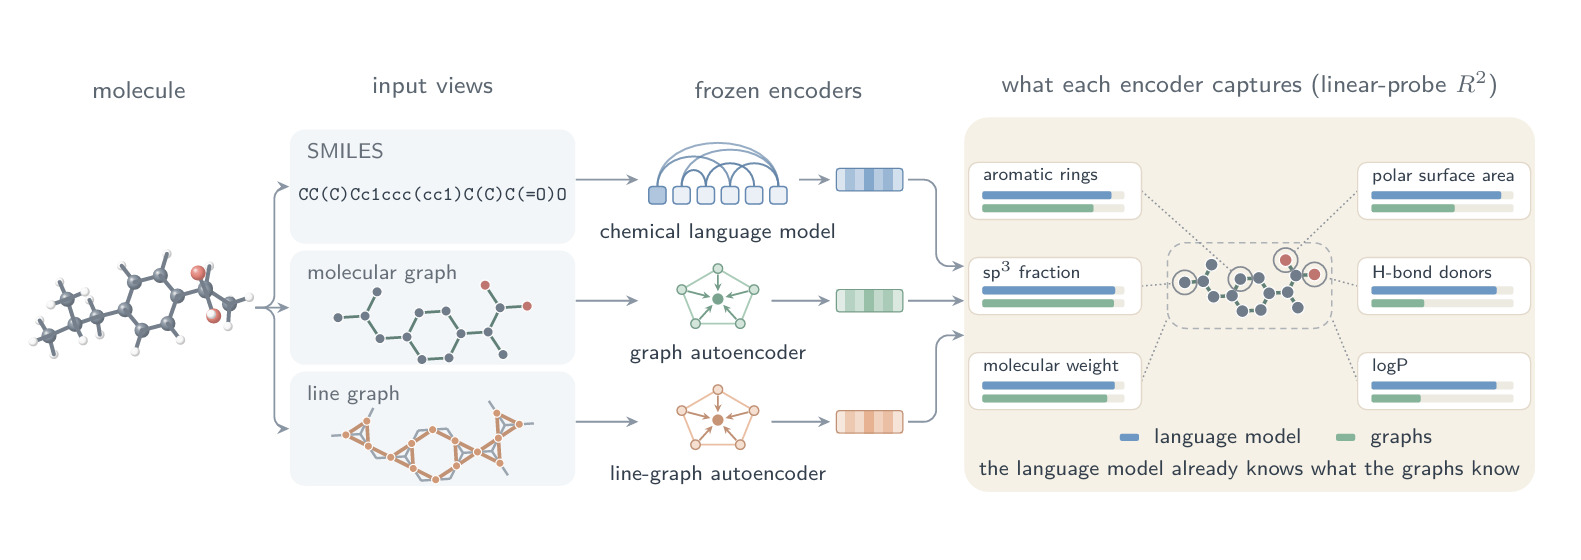
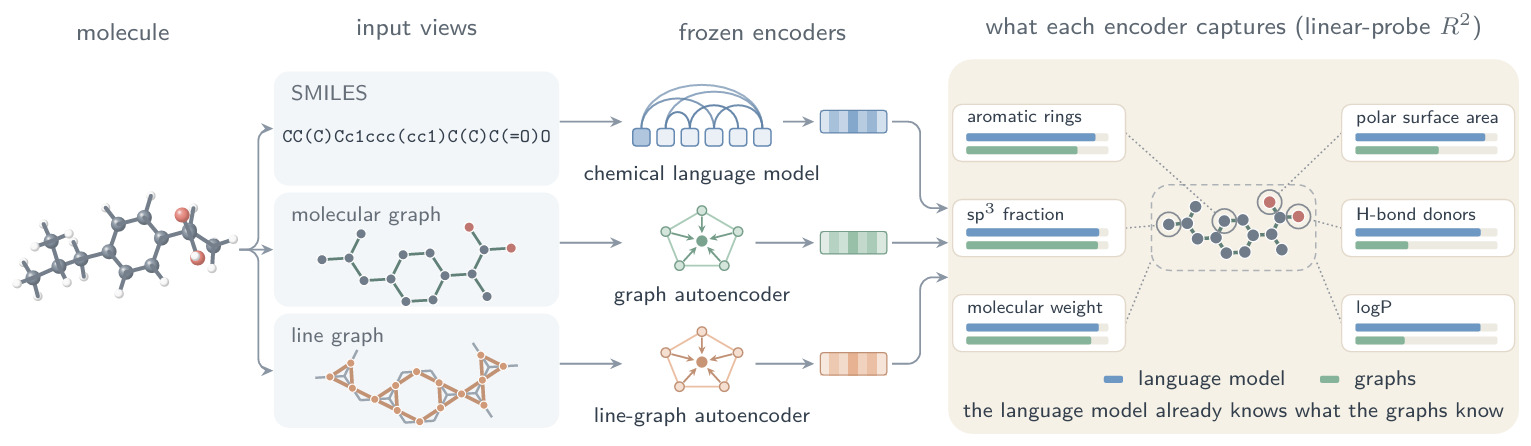
Fill the Nothing to Attend To thumbnail with the figure's centre
Add an optional figure_fit: cover for very wide figures: the thumbnail
shows the figure's centre as a background, and an invisible full-size
image on top keeps click-to-zoom opening the whole figure. Trim the
figure's white margins.

diff --git a/assets/css/custom.css b/assets/css/custom.css
@@ -680,6 +680,29 @@ html {
   cursor: zoom-in;
 }
 
+/* figure_fit: cover. The thumbnail is the figure's centre, drawn as a background that fills the
+   frame. The real <img> is invisible and only there so medium-zoom opens the whole figure. */
+.pub-figure--cover {
+  position: relative;
+  overflow: hidden;
+  padding: 0;
+  background-color: #fff;
+  background-position: center;
+  background-repeat: no-repeat;
+  background-size: cover;
+  cursor: zoom-in;
+}
+
+.pub-figure--cover img {
+  position: absolute;
+  top: 50%;
+  left: 0;
+  width: 100%;
+  max-height: none;
+  transform: translateY(-50%);
+  opacity: 0;
+}
+
 @media (min-width: 768px) {
   .pub-figure {
     float: right;
